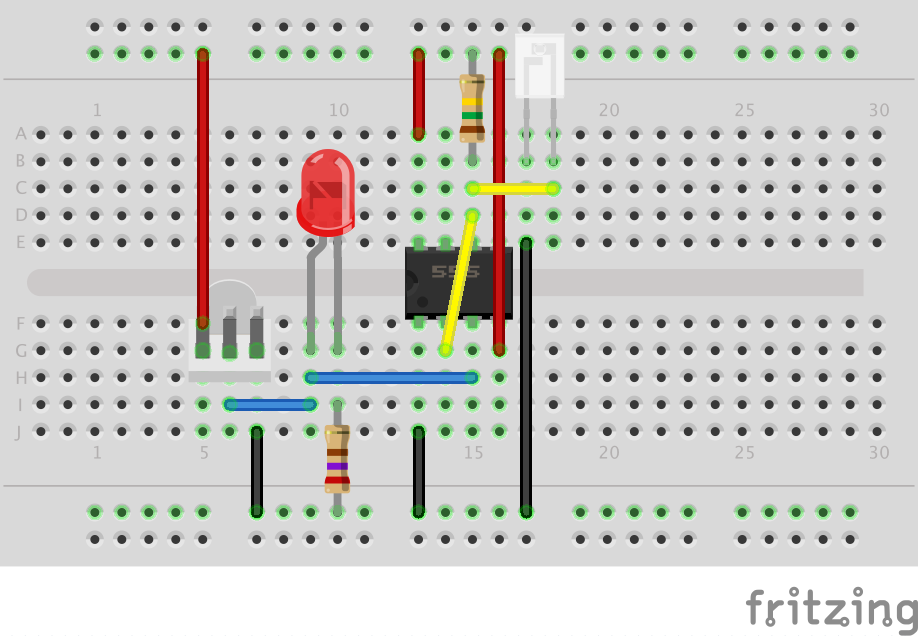
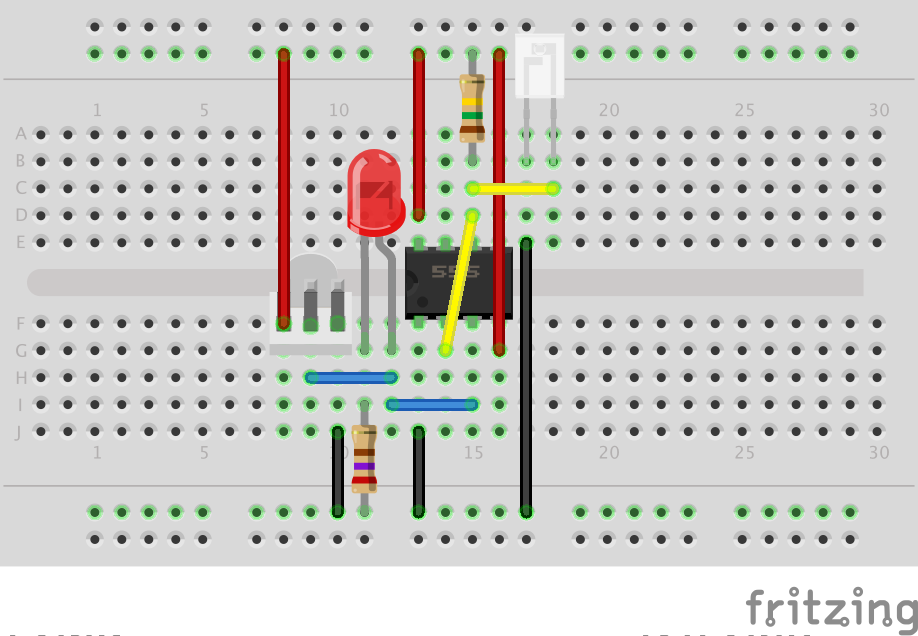
Updated schematics and breadboard.

Changed region(s): [[0.2135, 0.0597, 0.5185, 0.8365]]

diff --git a/README.md b/README.md
@@ -1,11 +1,17 @@
-# EnergMmeter
-Energy meter for the Raspberry Pi
+# EnergyMeter
+Energy meter for the Raspberry Pi.
 
-## Schema
-You can use the following schema and connect it to the Raspberry Pi (derived from Diederich Kroeske's schema). Make
-sure you use the 3.3V VDC line of your Raspberry Pi. Using 5V will damage your GPIO inputs. This schema can be used
-for an Arduino board as well and then you do need to use the 5V VDC. Make sure you change R2 accordingly to compensate
-for the higher voltage.
+## Hardware
+The Raspberry Pi is powerful device, but we do need some additional components to be able to monitor the LED pulses
+and/or magnetic pulses. The used components are inexpensive and generally available. I bought al my components at
+[Bits & Parts](http://www.bitsandparts.eu) (Netherlands).
+
+### Schema
+You can use the following schema and connect it to the Raspberry Pi (derived from 
+[Diederich Kroeske's schema](http://gathering.tweakers.net/forum/list_message/43482152#43482152)). Make sure you use
+the 3.3V VDC line of your Raspberry Pi. Using 5V on your GPIO input lines will damage your Raspberry Pi. This schema
+can be used for an Arduino board as well and then you do need to use the 5V VDC. Make sure you change R2 accordingly
+to compensate for the higher voltage (otherwise 
 
 ![Schema](images/schema.png)
 
@@ -20,9 +26,22 @@ Resistor capacities:
 You can also replace R1 with a resistor and add a variable resistor, so the sensitivity is adjustable. Make sure you
 keep the R1 resistor (at 10kOhm) to prevent a short-circuit when the variable resistor is set at a low resistance.
 
-## Breadboard
+You'll find other schematics that accomplish the same task and might look less complex. The 555 is used in a
+[Schmitt trigger configuration](http://en.wikipedia.org/wiki/Schmitt_trigger) to convert the analog signal of the
+photo transistor into a digital signal. A Schmitt trigger has a built-in hysteresis preventing excessive pulses during
+the high/low transitions.
+
+If you use a reed switch to monitor a gas meter, then you can use a 10kOhm resistor. Make sure you test different
+orientations for your reed sensor, because the polarity matters. When you want to monitor two or more meters
+(i.e. energy and gas), then you can duplicate this schema. You could use a single 556 instead of two 555s if you like.
+
+
+### Breadboard
 It's best to try the hardware on a breadboard to make sure everything works with your setup. Depending on your
 installation you might need to fiddle a bit with the resistors to get the appropriate resistor. When you put
 everything on your breadboard, then it should look like this:
 
 ![Schema](images/breadboard.png)
+
+When buying a breadboard, don't forget to buy a 3.3V power supply, some female/female wires (to connect the RPi to
+the breadboard) and a dozen male/male wires in various colors. You will need them.
